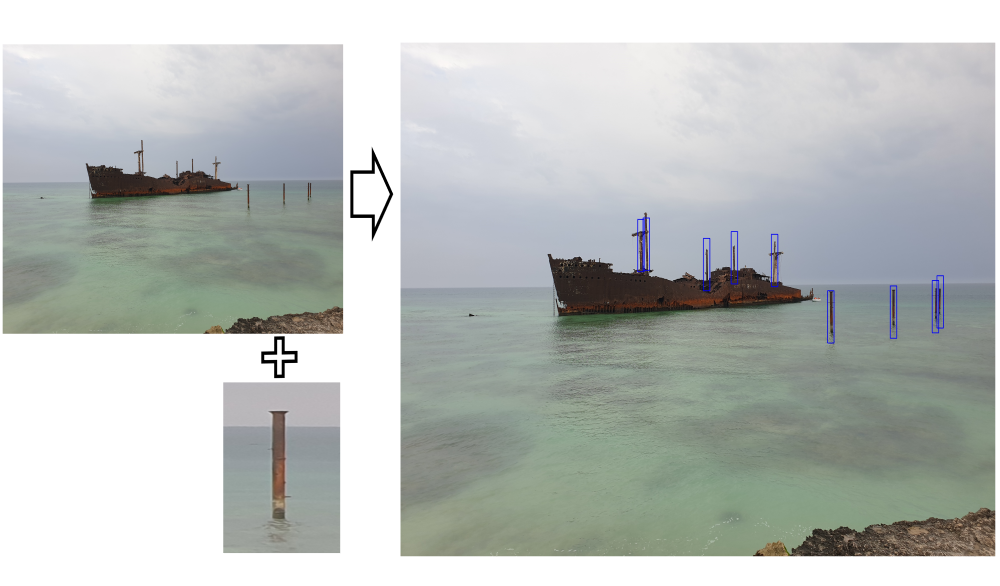
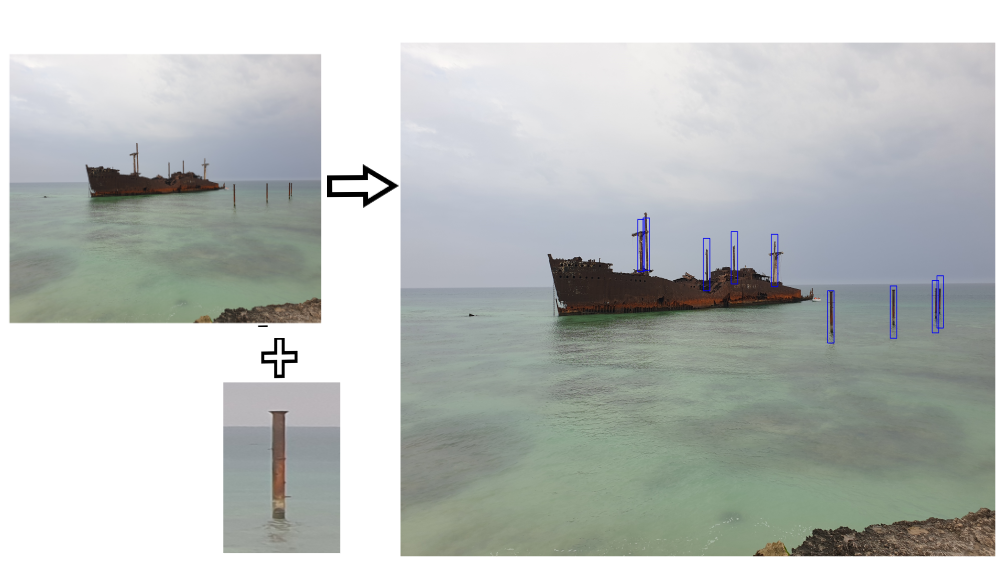
Add 3 more projects
From Image processing course

Changed region(s): [[0.0, 0.0614, 0.403, 0.5836], [0.093, 0.2457, 0.248, 0.3686]]

diff --git a/src/portfolio.js b/src/portfolio.js
@@ -492,6 +492,51 @@ const works = [
         ],
         imageLink: "images/HybridImages.png",
         alignLeft: true
+    },
+    {
+        projectName: "Hough Transform for Line Detection",
+        yearCompleted: "2021",
+        description: "This project implements the Hough Transform to detect and draw lines in images, and mark corners. It involves edge detection and updating an accumulator matrix using Haugh Transform.",
+        techStack: "Line Detection, Image Transform",
+        links: [
+            {
+                label: "",
+                type: "git",
+                url: "https://github.com/Nikelroid/Image-processing-3/tree/main/Hough-Transform"
+            }
+        ],
+        imageLink: "images/HaughTransform.png",
+        alignLeft: false
+    },
+    {
+        projectName: "Texture Synthesis",
+        yearCompleted: "2021",
+        description: "This project implements texture synthesis, focusing on generating new textures through image patching and synthesis. It covers matrix adjustments, gradient handling, and optimization techniques.",
+        techStack: "Dijkstra's algorithm",
+        links: [
+            {
+                label: "",
+                type: "git",
+                url: "https://github.com/Nikelroid/Image-processing-3/tree/main/Texture-Synthesis"
+            }
+        ],
+        imageLink: "images/TexrureSyntesis.png",
+        alignLeft: true
+    },
+    {
+        projectName: "Image Completion",
+        yearCompleted: "2021",
+        description: "In this project we complete images by filling in missing regions. The process includes refining the filled areas, and followed by smoothing to enhance the final image quality.",
+        techStack: "patch optimization",
+        links: [
+            {
+                label: "",
+                type: "git",
+                url: "https://github.com/Nikelroid/Image-processing-3/tree/main/I%E2%85%BFage-%E2%85%ADo%E2%85%BFp%E2%85%BCetion"
+            }
+        ],
+        imageLink: "images/ImageCompletion.png",
+        alignLeft: false
     }
 ]
 
